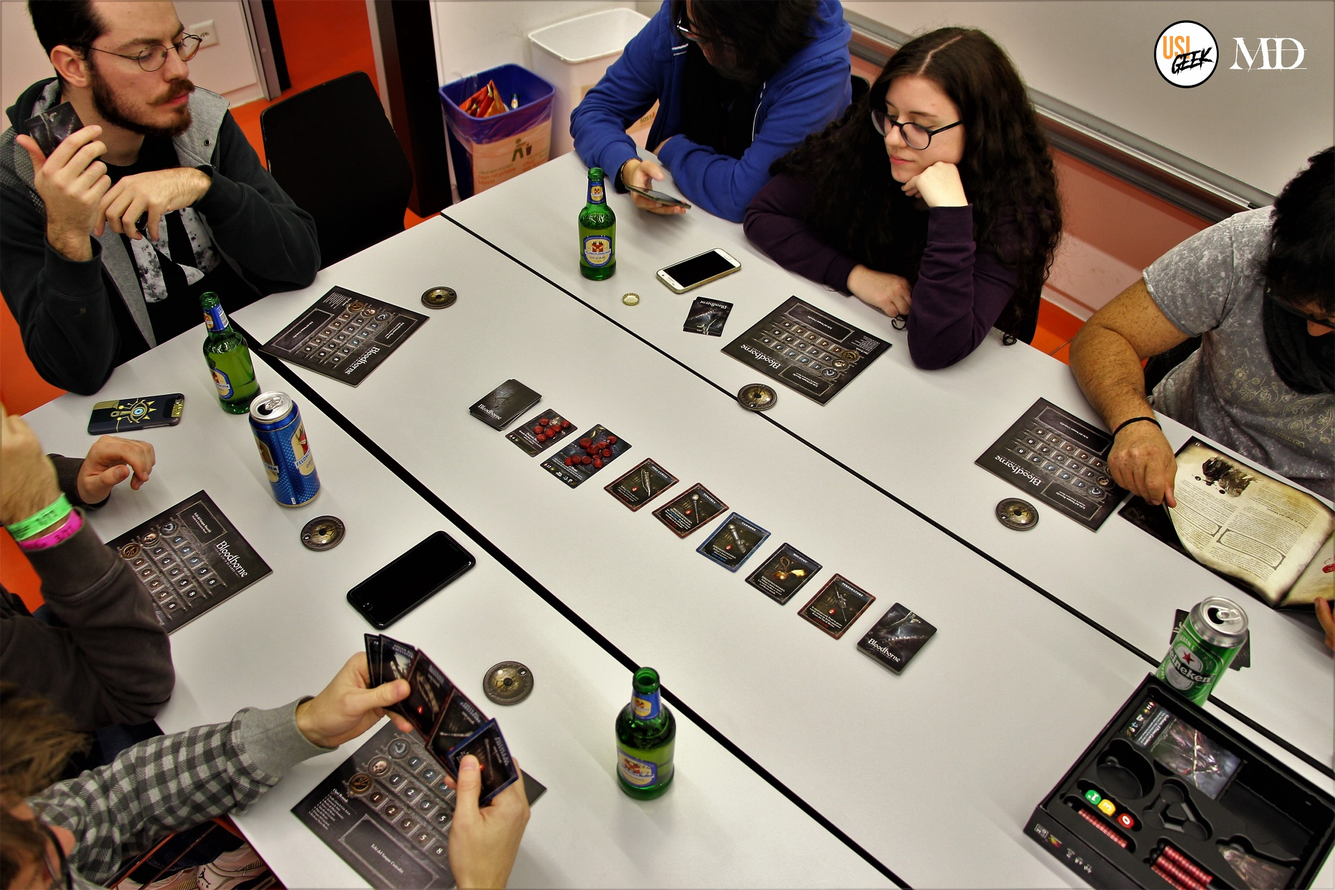
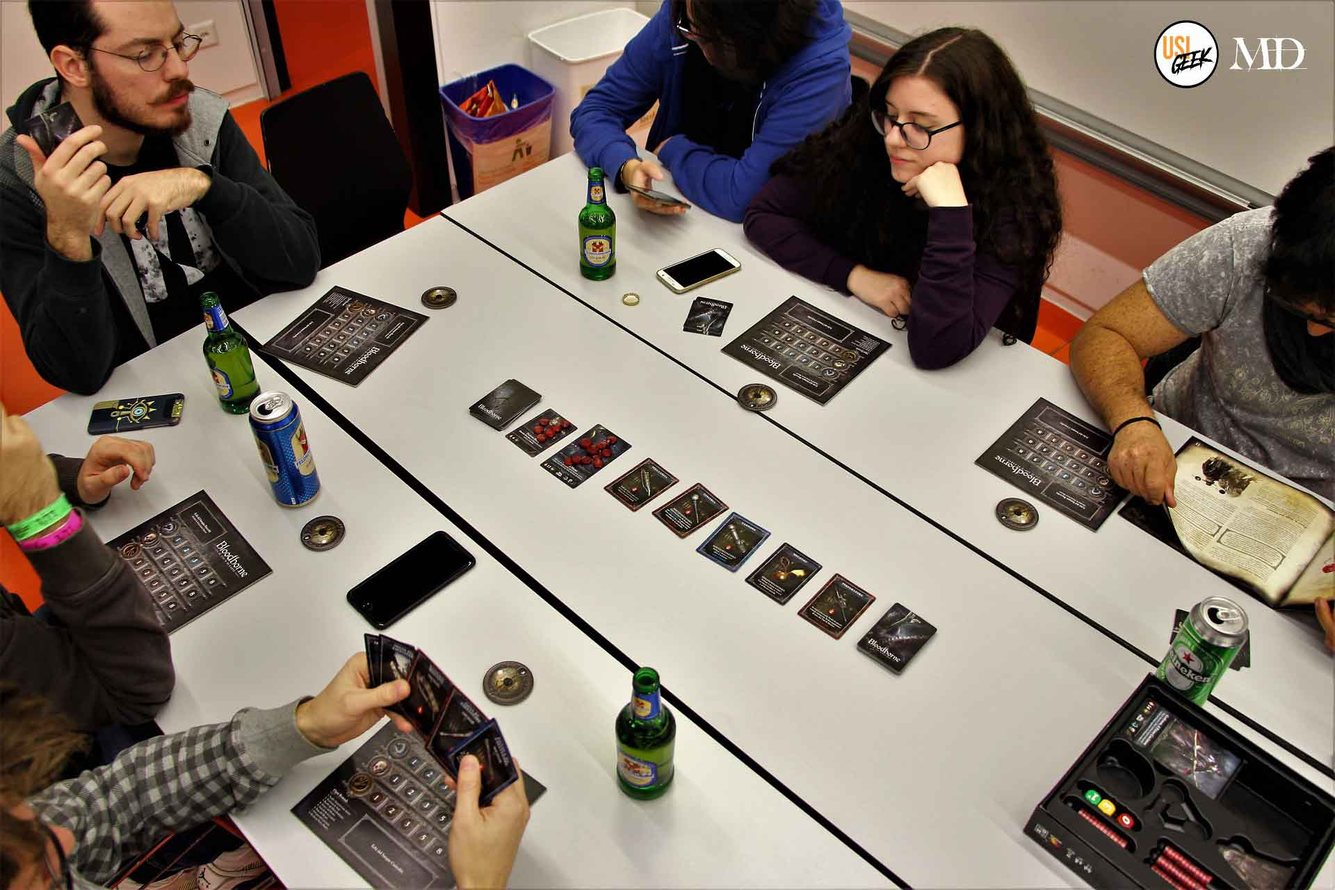
Compress all raster images
Convert .png images to .jpg

diff --git a/src/components/Hero/_hero.scss b/src/components/Hero/_hero.scss
@@ -6,7 +6,7 @@
 	justify-content: center;
 	align-items: center;
 	background-color: $black;
-	background: linear-gradient(transparentize($black, .15),transparentize($black, .15)), url(../../images/hero-bg.png);
+	background: linear-gradient(transparentize($black, .15),transparentize($black, .15)), url(../../images/hero-bg.jpg);
 	background-size: auto, cover;
 	background-position: center;
 
